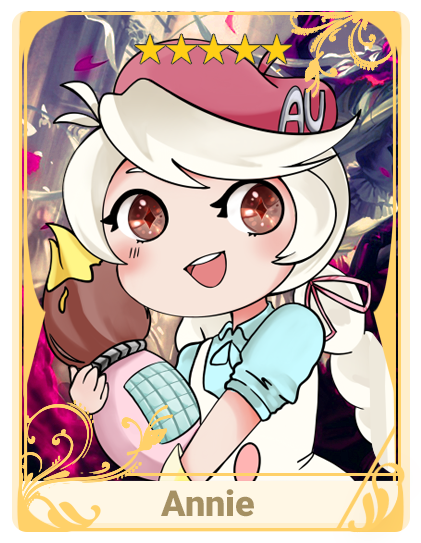
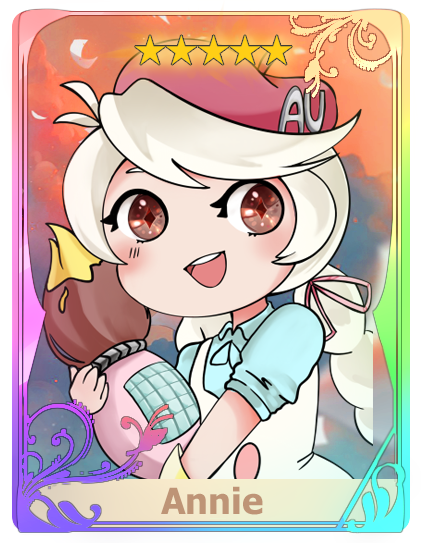
allows collect duplicate. added annie rainbow frame

diff --git a/core/utils/gachaContainerStoring.js b/core/utils/gachaContainerStoring.js
@@ -115,7 +115,7 @@ class gachaContainerStoring {
 		//  Parse & merge roll data
 		let parsed_container = this.mergingItems
 		//  Wait for another item conditions check
-		await this.additionalChecks(parsed_container)
+		//await this.additionalChecks(parsed_container)
 		//  Withdrawing user's lucky tickets based on roll type
 		await this.db.withdrawLuckyTicket(this.container.roll_type)
 		//	Transformed data

diff --git a/core/modules/commands/gacharoll.js b/core/modules/commands/gacharoll.js
@@ -51,7 +51,7 @@ class Gacha {
 			//	Fire up world chat if user has pulled 5 star item.
 			if (res.rarity === 5) reply(SYS_NOTIFICATION.FIVESTAR_PULL, {
 				socket: [this.author, emoji(relabel(res.item_alias)), res.item_name],
-				field: world,
+				//field: world,
 				simplified: true
 			})
 
